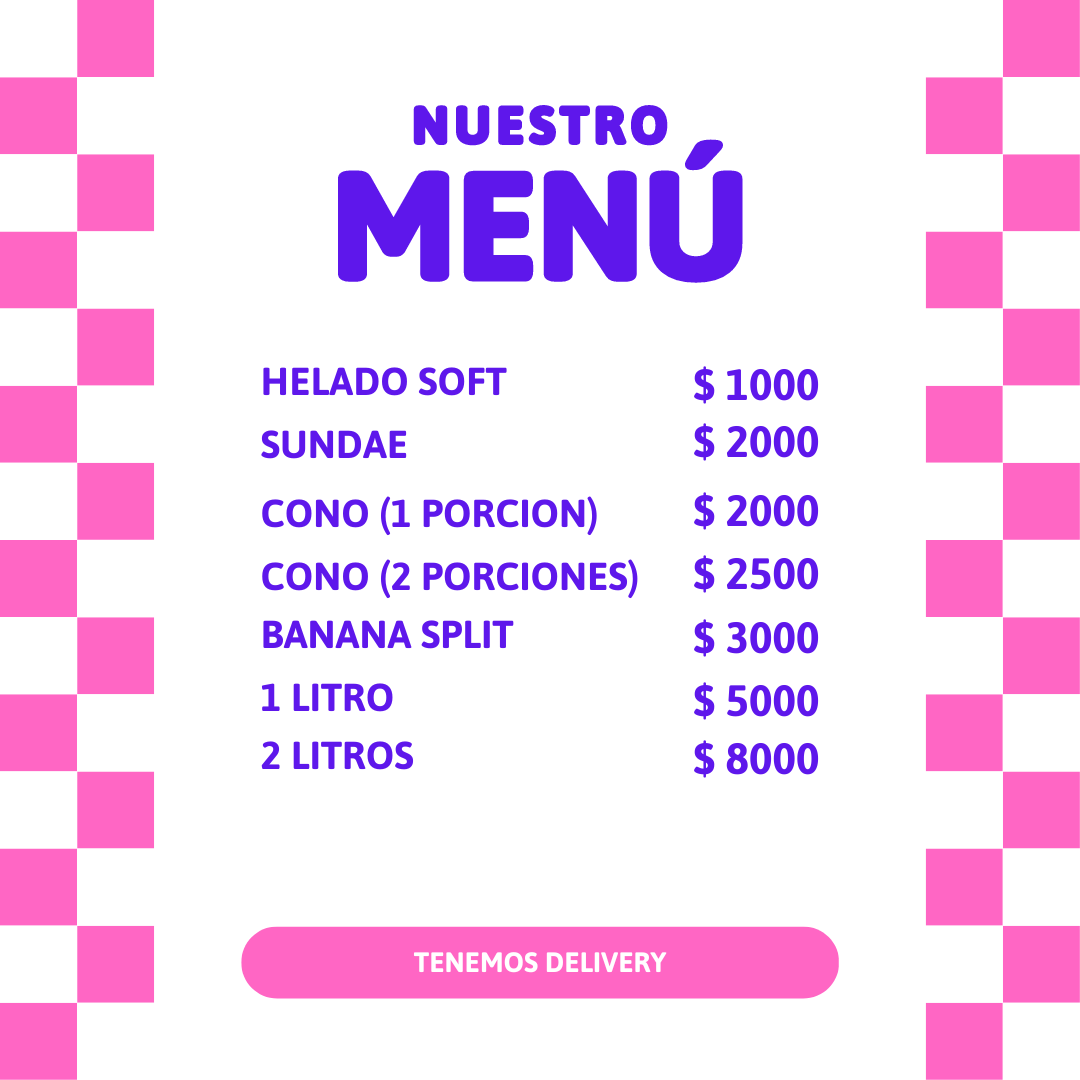
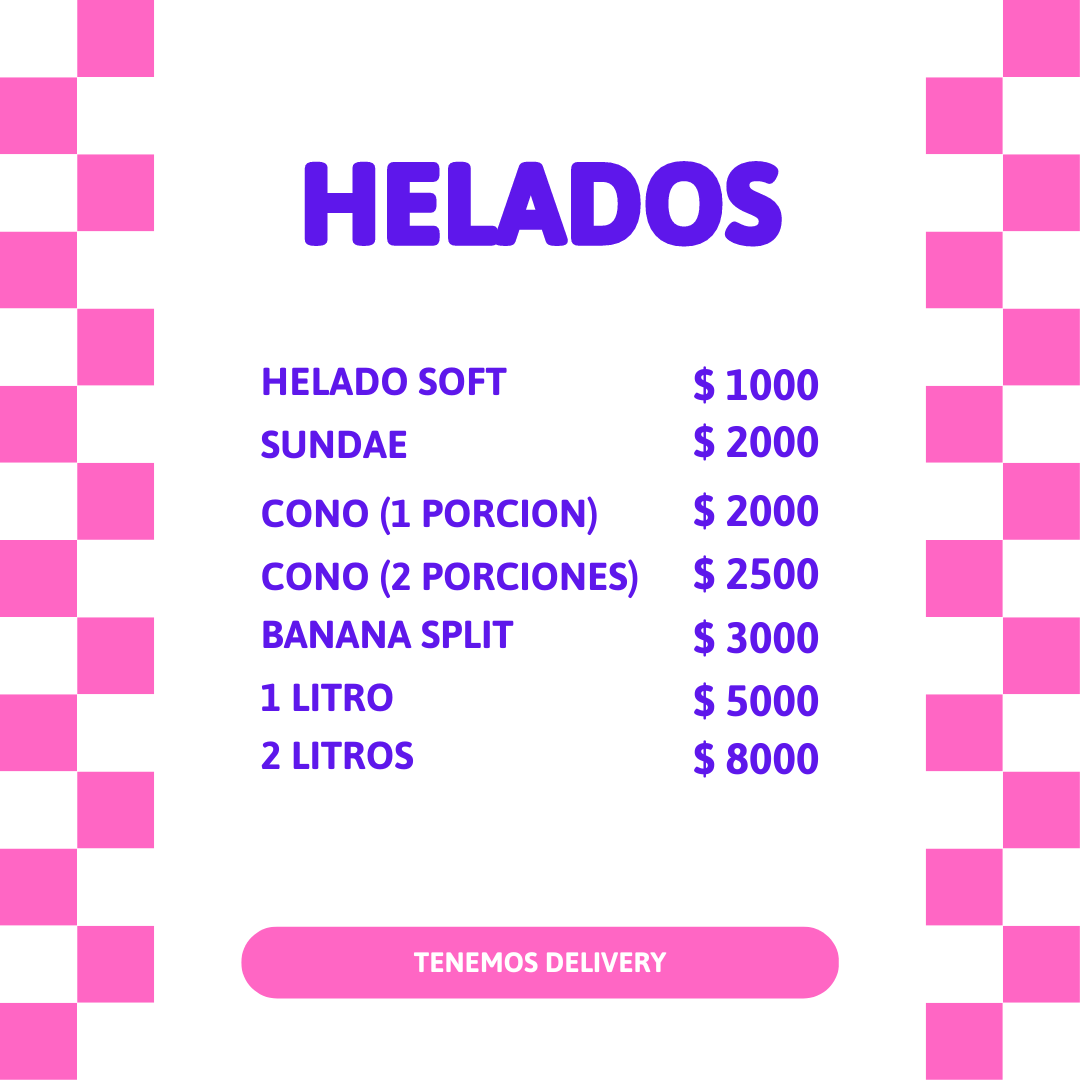
nosotros-terminado

Changed region(s): [[0.275, 0.0917, 0.7333, 0.275]]

diff --git a/nosotros.html b/nosotros.html
@@ -15,7 +15,7 @@
 
 <body>
     <header>
-
+    
         <nav>
             <ul class="nav-links">
                 <li><a href='index.html'>INICIO</a></li>
@@ -23,61 +23,64 @@
                 <li><a href='contacto.html'>CONTACTO</a></li>
             </ul>
         </nav>
-        
-        <div class="descripcion">
-            <div class="container">
-                <div class="text-center">
+        <div class="container ">
+            <div class="text-center">
+                <div class="nosotros">
+    
+                    <div>
+                        <div class="div-img">
+                            <img src="logo.png" alt="centrar img con flexbox" width="300" height="300" />
+                        </div>
+                    </div>
+    
+                </div>
+    
+                <div class="descripcion">   
                     <div class="tittle">
                         <h1>Quienes Somos</h1>
-                    </div>    
+                    </div>
                     <h3>
-                            Somos una heladería comprometida con la excelencia en la elaboración de
-                        helados artesanales. Nos enorgullecemos de utilizar ingredientes frescos 
+                        Somos una heladería comprometida con la excelencia en la elaboración de
+                        helados artesanales. Nos enorgullecemos de utilizar ingredientes frescos
                         y naturales en todas nuestras creaciones, cuidadosamente seleccionados para
-                        garantizar la más alta calidad en cada bocado. En nuestra heladería, la calidad, 
-                        la creatividad y la satisfacción del cliente son nuestros principales 
+                        garantizar la más alta calidad en cada bocado. En nuestra heladería, la calidad,
+                        la creatividad y la satisfacción del cliente son nuestros principales
                         valores, y nos esforzamos por superar las expectativas en cada visita.
-                    </h3>
+                    </h3>    
                 </div>
-            </div>
-        </div>
-        <div class="misión">
-            <div class="container">
-                <div class="text-center">
+                
+                <div class="misión">   
                     <div class="tittle">
                         <h1>Misión</h1>
-                    </div>
-                        
-                     <h3>
-                        "Brindar experiencias deliciosas y refrescantes a nuestros clientes, 
-                            ofreciendo una amplia variedad de helados artesanales de la más alta calidad, 
-                            elaborados con ingredientes frescos y naturales. Nos comprometemos a satisfacer
-                            los deseos de nuestros clientes mediante un servicio excepcional y un ambiente acogedor, 
-                            donde puedan disfrutar momentos dulces y memorables con sus seres queridos".
+                    </div>    
+                    <h3>
+                        "Brindar experiencias deliciosas y refrescantes a nuestros clientes,
+                        ofreciendo una amplia variedad de helados artesanales de la más alta calidad,
+                        elaborados con ingredientes frescos y naturales. Nos comprometemos a satisfacer
+                        los deseos de nuestros clientes mediante un servicio excepcional y un ambiente acogedor,
+                        donde puedan disfrutar momentos dulces y memorables con sus seres queridos".
                     </h3>
                 </div>
-            </div>
-        </div>
-        <div class="visión">
-            <div class="container">
-                <div class="text-center">
+    
+            
+                <div class="visión">    
                     <div class="tittle">
                         <h1>Visión</h1>
-                    </div>
-                        
-                     <h3>
+                    </div>    
+                    <h3>
                         "Ser reconocidos como la heladería líder en nuestra comunidad, siendo el destino preferido
-                            para quienes buscan sabores únicos y auténticos en helados. Nos esforzamos por innovar 
-                            constantemente en nuestras recetas, mantener altos estándares de calidad en todos nuestros
-                            productos y servicios, y expandir nuestra presencia para compartir la alegría de nuestros
-                            helados con un público cada vez más amplio. Aspiramos a ser un referente de excelencia 
-                            en la industria, inspirando pasión por el helado y creando momentos de felicidad para 
-                            nuestros clientes en cada visita".
+                        para quienes buscan sabores únicos y auténticos en helados. Nos esforzamos por innovar
+                        constantemente en nuestras recetas, mantener altos estándares de calidad en todos nuestros
+                        productos y servicios, y expandir nuestra presencia para compartir la alegría de nuestros
+                        helados con un público cada vez más amplio. Aspiramos a ser un referente de excelencia
+                        en la industria, inspirando pasión por el helado y creando momentos de felicidad para
+                        nuestros clientes en cada visita".
                     </h3>
-                </div>
+                </div>    
             </div>
         </div>
-           
-            
-
+       
+    
+    
+    
     </header>

diff --git a/index.css b/index.css
@@ -37,12 +37,29 @@ nav a {
     color: rgb(112, 120, 238);
     margin: 5cm;
 }
+
+.helados {
+    
+    padding: 6px; 
+    font-style: italic;
+    color: rgb(112, 120, 238);
+    margin: 5cm;
+}
+.cafe {
+    
+    padding: 6px; 
+    font-style: italic;
+    color: rgb(112, 120, 238);
+    margin: 5cm;
+}
+
 .descripcion {
     
     padding: 5px; 
     font-style: italic;
     color: rgb(148, 32, 165);
     margin: 5cm;
+
 }.misión {
     
     padding: 5px; 
@@ -69,28 +86,6 @@ nav a {
     justify-content: center;
 }
 
-.batido {
-    padding: 11cm;
-    justify-content: center;
-    margin: auto;
-    background-color: url(5543771.jpg?); 
-    background-repeat: no-repeat;
-    background-attachment: fixed;
-    background-size: cover;
-  
-   
-
-}
-.promociones {
-    justify-content: center;
-    font-style: italic;
-    text-align: center;
-    /* background-image: url(hpremium.jpg); */
-    
-    padding: 1cm;
-    color: rgb(112, 120, 238) ;
-    
-}
  
 
 footer {    

diff --git a/productos.html b/productos.html
@@ -23,13 +23,22 @@
                 <li><a href='contacto.html'>CONTACTO</a></li>
             </ul>
         </nav>
-        <div class="logo">
+        <div class="helados">
             <div class="container">
                 <div>
                     <div class="div-img">
                         <img src="menu.png" alt="centrar img con flexbox" width="600" height="600" />
                     </div>
-                </div>              
+                </div>                         
+            </div>
+        </div>
+        <div class="cafe">
+            <div class="container">
+                <div>
+                    <div class="div-img">
+                        <img src="cafe.png" alt="centrar img con flexbox" width="600" height="600" />
+                    </div>
+                </div>                         
             </div>
         </div>
 
